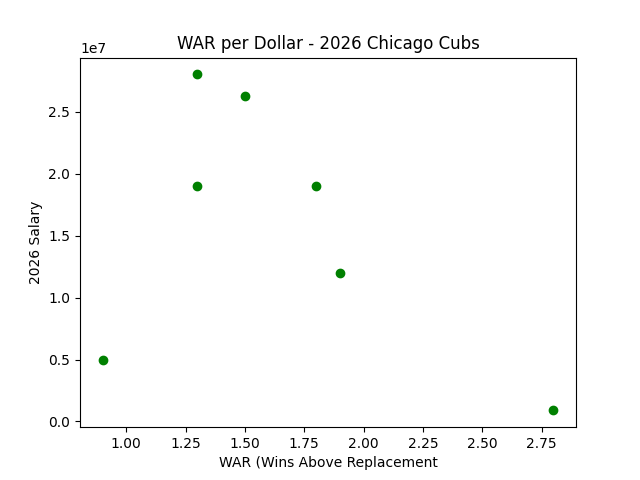
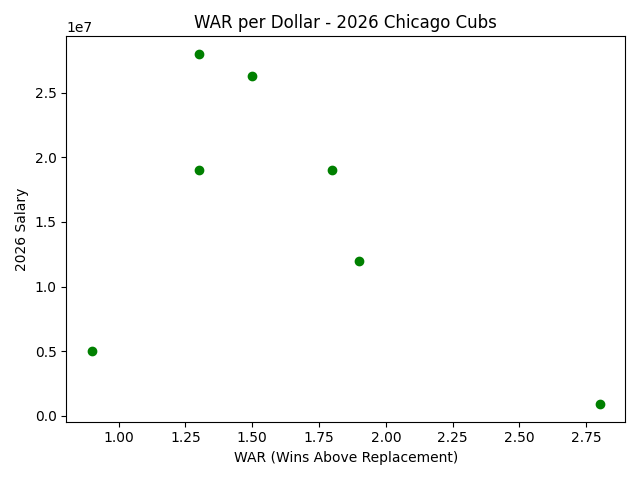
finished main pipeline

diff --git a/cubs_data_analysis.py b/cubs_data_analysis.py
@@ -50,10 +50,7 @@ def load_contract_data(filepath):
     print(f"Loaded {len(df_contracts)} rows from {filepath}")
     return df_contracts
 
-df_hitting = load_hitting_data("cubs_hitting_data.csv")
-df_pitching = load_pitching_data("cubs_pitching_data.csv")
-df_contracts = load_contract_data("cubs_contracts_data.csv")
-print("="*50)
+
 
 # clean data: remove pitchers from hitting data, remove symbols from names
 def clean_hitter_data(df):
@@ -62,10 +59,13 @@ def clean_hitter_data(df):
     df = df.dropna(subset=["BA"])
 
     # remove (#) or (*) from end of player names
-    df["Player"] = df["Player"].str.rstrip("*#")
+    df["Player"] = df["Player"].str.replace("*","").str.replace("#","")
 
     # remove awards and Player-additional columns
     df = df.drop(columns=['Awards','Player-additional'])
+
+    df['Player']=df['Player'].str.replace(" (10-day IL)","")
+    df = df[df['Player'] != 'Team Totals']
 
     print(f"Cleaned {len(df)} rows from cubs_hitting_data.csv")
     return df
@@ -102,24 +102,27 @@ def clean_contracts_data(df):
    print(f"Cleaned {len(df)} rows from cubs_contracts_data.csv")
    return df
 
-df_hitting = clean_hitter_data(df_hitting)
-df_pitching = clean_pitcher_data(df_pitching)
-df_contracts = clean_contracts_data(df_contracts)
-print("="*50)
+
 
 # data validation
 def validate_hitter_data(df):
     assert df["BA"].notna().all(), "BA still has missing values"
     assert len(df) > 0, "DataFrame is empty after cleaning"
+    print(f"Validated {len(df)} rows of hitter data")
+    return df
 
 def validate_pitcher_data(df):
     assert df["SO/BB"].notna().all(), "SO/BB still has missing values"
     assert len(df) > 0, "DataFrame is empty after cleaning"
+    print(f"Validated {len(df)} rows of pitcher data")
+    return df
 
 def validate_contracts_data(df):
     assert df["2026"].notna().all(), "2026 salary still has missing values"
     assert (df['2026'] > 0).all(), "2026 has zero or negative salaries"
     assert len(df) > 0, "DataFrame is empty after cleaning"
+    print(f"Validated {len(df)} rows of contract data")
+    return df
 
 # data analysis
 # avg age of pitchers vs hitters (both), OPS by defensive position (hitters), WAR by salary (hitters), SO/BB rate of starters vs releivers (pitchers)
@@ -135,11 +138,12 @@ def analyze_hitting_data(df):
     df_merged["WAR per dollar"] = df_merged['WAR'] / df_merged['2026']
     print(df_merged.groupby('Player')['WAR per dollar'].mean().sort_values(ascending=False))
 
+    # chart must be created inside this function because df_merged is not global
     plt.scatter(df_merged['WAR'], df_merged['2026'], color='green')
     plt.title("WAR per Dollar - 2026 Chicago Cubs")
-    plt.xlabel("WAR (Wins Above Replacement")
+    plt.xlabel("WAR (Wins Above Replacement)")
     plt.ylabel("2026 Salary")
-    plt.tight_layout
+    plt.tight_layout()
     plt.savefig("WAR_by_salary.png")
     plt.show()
 
@@ -148,8 +152,22 @@ def analyze_pitching_data(df):
     pitcher_avg_age = df['Age'].mean()
     print(f"Average pitcher age: {pitcher_avg_age:.1f} yrs")
 
-    print(df_pitching.groupby('Pos')["SO/BB"].mean())
+    print(df.groupby('Pos')["SO/BB"].mean())
 
+
+# --- Main Pipeline --- 
+df_hitting = load_hitting_data("cubs_hitting_data.csv")
+df_pitching = load_pitching_data("cubs_pitching_data.csv")
+df_contracts = load_contract_data("cubs_contracts_data.csv")
+print("="*50)
+df_hitting = clean_hitter_data(df_hitting)
+df_pitching = clean_pitcher_data(df_pitching)
+df_contracts = clean_contracts_data(df_contracts)
+print("="*50)
+df_hitting = validate_hitter_data(df_hitting)
+df_pitching = validate_pitcher_data(df_pitching)
+df_contracts = validate_contracts_data(df_contracts)
+print("="*50)
 analyze_hitting_data(df_hitting)
 analyze_pitching_data(df_pitching)
 
